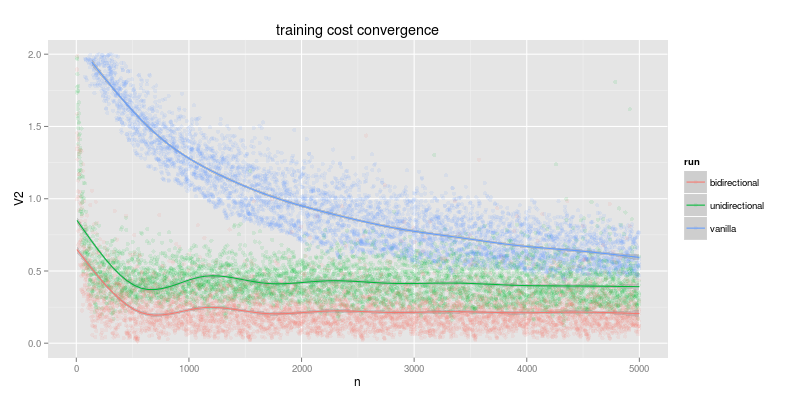
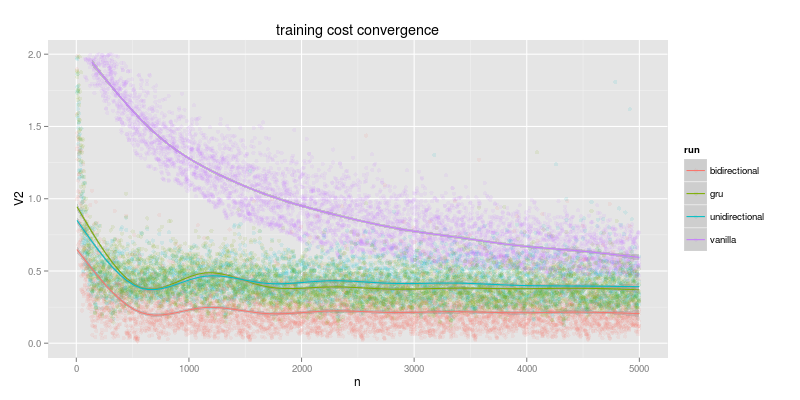
first cut gru, needs proving

Changed region(s): [[0.0938, 0.12, 0.8125, 0.81], [0.8438, 0.36, 0.9688, 0.63], [0.5, 0.48, 0.5312, 0.51]]

diff --git a/rnn_lm/gru_rnn.py b/rnn_lm/gru_rnn.py
@@ -1,0 +1,147 @@
+#!/usr/bin/env python
+
+# gru-based rnn model
+
+# - no (other) protection against exploding or vanishing gradients
+# - no batching, train one example at a time.
+# - trivial randn weight init
+# - no bias with dot products
+
+import sys, time, optparse
+import numpy as np
+from util import load_training_test, perplexity_of_sequence, TokenIdx
+import theano
+import theano.tensor as T
+
+optparser = optparse.OptionParser(prog='gru_rnn')
+optparser.add_option('--adaptive-learning-rate', None, dest='adaptive_learning_rate_fn', type='string',
+                     default="rmsprop", help='adaptive learning rate method')
+opts, _arguments = optparser.parse_args()
+
+training, test = load_training_test(sys.argv[1], sys.argv[2])
+
+# data is just characters, ['A', 'B', 'A', ... ]
+# but we left and right pad with <s> and </s> to include prediction of start/end of sequence
+# and convert to idxs
+vocab = TokenIdx()
+def convert_to_ids(vocab, data):
+    return [vocab.ids_for(["<s>"] + sequence + ["</s>"]) for sequence in data]
+training = convert_to_ids(vocab, training)
+test = convert_to_ids(vocab, test)
+
+# matrix sizing
+n_in = vocab.num_entries()
+n_hidden = 10
+
+# t_x input and t_y output sequence
+t_x = T.ivector('x')  # eg s A B A D   for sequence A B A D
+t_y = T.ivector('y')  # eg A B A D /s  for sequence A B A D
+
+# initial hidden state for each sequence. always zero so just stored as shared.
+t_h0 = theano.shared(np.zeros(n_hidden, dtype='float32'), name='h0', borrow=True)
+
+# Gated Recurrent Unit
+# "Empirical Evaluation of Gated Recurrent Neural Networks on Sequence Modeling" s3.2
+# http://arxiv.org/abs/1412.3555
+
+# learnt weights. init for now with simple randn.
+# TODO: orthogonalize? or just identity (le paper)
+t_Wx = theano.shared(np.asarray(np.random.randn(n_hidden, n_in), dtype='float32'), name='Wx', borrow=True)
+t_Wz = theano.shared(np.asarray(np.random.randn(n_hidden, n_in), dtype='float32'), name='Wz', borrow=True)
+t_Wr = theano.shared(np.asarray(np.random.randn(n_hidden, n_in), dtype='float32'), name='Wr', borrow=True)
+t_Ux = theano.shared(np.asarray(np.random.randn(n_hidden, n_hidden), dtype='float32'), name='Ux', borrow=True)
+t_Uz = theano.shared(np.asarray(np.random.randn(n_hidden, n_hidden), dtype='float32'), name='Uz', borrow=True)
+t_Ur = theano.shared(np.asarray(np.random.randn(n_hidden, n_hidden), dtype='float32'), name='Ur', borrow=True)
+t_Wy = theano.shared(np.asarray(np.random.randn(n_in, n_hidden), dtype='float32'), name='Wy', borrow=True)
+
+def recurrent_step(x_t, h_t0):
+    # calc reset gate activation
+    r = T.nnet.sigmoid(t_Wr[:, x_t] + T.dot(t_Ur, h_t0))
+    # calc candidate next hidden state (with reset)
+    h_t_candidate = T.nnet.sigmoid(t_Wx[:, x_t] + T.dot(r * t_Ux, h_t0))    
+
+    # calc update gate activation 
+    z = T.nnet.sigmoid(t_Wz[:, x_t] + T.dot(t_Uz, h_t0))
+    # calc hidden state as affine combo of last state and candidate next state
+    h_t = (1 - z) * h_t0 + z * h_t_candidate
+
+    # calc output; softmax over output weights dot hidden state
+    y_t = T.flatten(T.nnet.softmax(T.dot(t_Wy, h_t)), 1)
+
+    # return what we want to have per output step
+    return [h_t, y_t]
+
+# define the recurrence
+[h_ts, t_y_softmax], _ = theano.scan(fn=recurrent_step,
+                                     sequences=[t_x],
+                                     outputs_info=[t_h0, None])
+
+# loss is just cross entropy of the softmax output compared to the target
+cross_entropy = T.mean(T.nnet.categorical_crossentropy(t_y_softmax, t_y))
+
+# gradient update; either vanilla or rmsprop
+learning_rate = 0.05
+
+def vanilla(params, gradients):
+    return [(param, param - learning_rate * gradient) for param, gradient in zip(params, gradients)]
+
+def rmsprop(params, gradients):
+    updates = []
+    for param_t0, gradient in zip(params, gradients):
+        # rmsprop see slide 29 of http://www.cs.toronto.edu/~tijmen/csc321/slides/lecture_slides_lec6.pdf
+        # first the mean_sqr exponential moving average
+        # TODO: hmmm. current checkpointer doesn't support this at all :(
+        mean_sqr_t0 = theano.shared(np.zeros(param_t0.get_value().shape, dtype=param_t0.get_value().dtype))  # zeros in same shape are param
+        mean_sqr_t1 = 0.9 * mean_sqr_t0 + 0.1 * (gradient**2)
+        updates.append((mean_sqr_t0, mean_sqr_t1))
+        # update param surpressing gradient by this average
+        param_t1 = param_t0 - learning_rate * (gradient / T.sqrt(mean_sqr_t1 + 1e-10))
+        updates.append((param_t0, param_t1))
+    return updates
+
+# lookup update fn from opts
+update_fn = globals().get(opts.adaptive_learning_rate_fn)
+if update_fn == None:
+    raise Exception("no update_fn " + opts.adaptive_learning_rate_fn)
+
+params = [t_Wx, t_Wz, t_Wr, t_Ux, t_Uz, t_Ur, t_Wy]
+gradients = T.grad(cost=cross_entropy, wrt=params)
+updates = update_fn(params, gradients)
+
+
+compile_start_time = time.time()
+
+# compile function for training; ie with backprop updates
+train_fn = theano.function(inputs=[t_x, t_y],
+                           outputs=[cross_entropy],
+                           updates=updates)
+
+# compile function to emit predictions
+predict_fn = theano.function(inputs=[t_x],
+                             outputs=t_y_softmax)  # full distribution
+
+print "compilation took %0.3f s" % (time.time()-compile_start_time)
+
+for epoch in range(5):
+    start_time = time.time()
+
+    # train all examples. no batching yet!! o_O
+    for n, training_eg in enumerate(training):
+        x, y = training_eg[:-1], training_eg[1:]
+        cost, = train_fn(x, y)
+        print "COST\t%s" % cost
+
+    # eval test set (again no batching)
+    perplexities = []
+    for test_eg in test:
+        probabilities = []
+        x, y = test_eg[:-1], test_eg[1:]
+        y_softmaxs = predict_fn(x)
+        for y_true_i, y_softmax in zip(y, y_softmaxs):
+            y_true_confidence = y_softmax[y_true_i]
+            probabilities.append(y_true_confidence)
+        perplexities.append(perplexity_of_sequence(probabilities))
+
+    print "epoch", epoch,
+    print "min, mean, max perplexity", " ".join(["%.3f"%s for s in [min(perplexities), np.mean(perplexities), max(perplexities)]]),
+    print "took %.3f sec" % (time.time()-start_time)

diff --git a/rnn_lm/README.md b/rnn_lm/README.md
@@ -123,3 +123,17 @@ epoch 3 min, mean, max perplexity 1.075 1.269 2.361 took 1.947 sec
 epoch 4 min, mean, max perplexity 1.087 1.268 2.369 took 1.952 sec
 ```
 
+#### v4. gru
+
+* unidirectional but this time with [GRU](http://arxiv.org/abs/1502.02367)
+
+```
+$ ./gru_rnn.py training test
+compilation took 11.194 s
+epoch 0 min, mean, max perplexity 1.233 1.464 1.969 took 1.792 sec
+epoch 1 min, mean, max perplexity 1.271 1.449 1.904 took 1.794 sec
+epoch 2 min, mean, max perplexity 1.272 1.444 1.911 took 1.794 sec
+epoch 3 min, mean, max perplexity 1.277 1.446 1.999 took 1.818 sec
+epoch 4 min, mean, max perplexity 1.264 1.450 1.974 took 1.810 sec
+```
+
